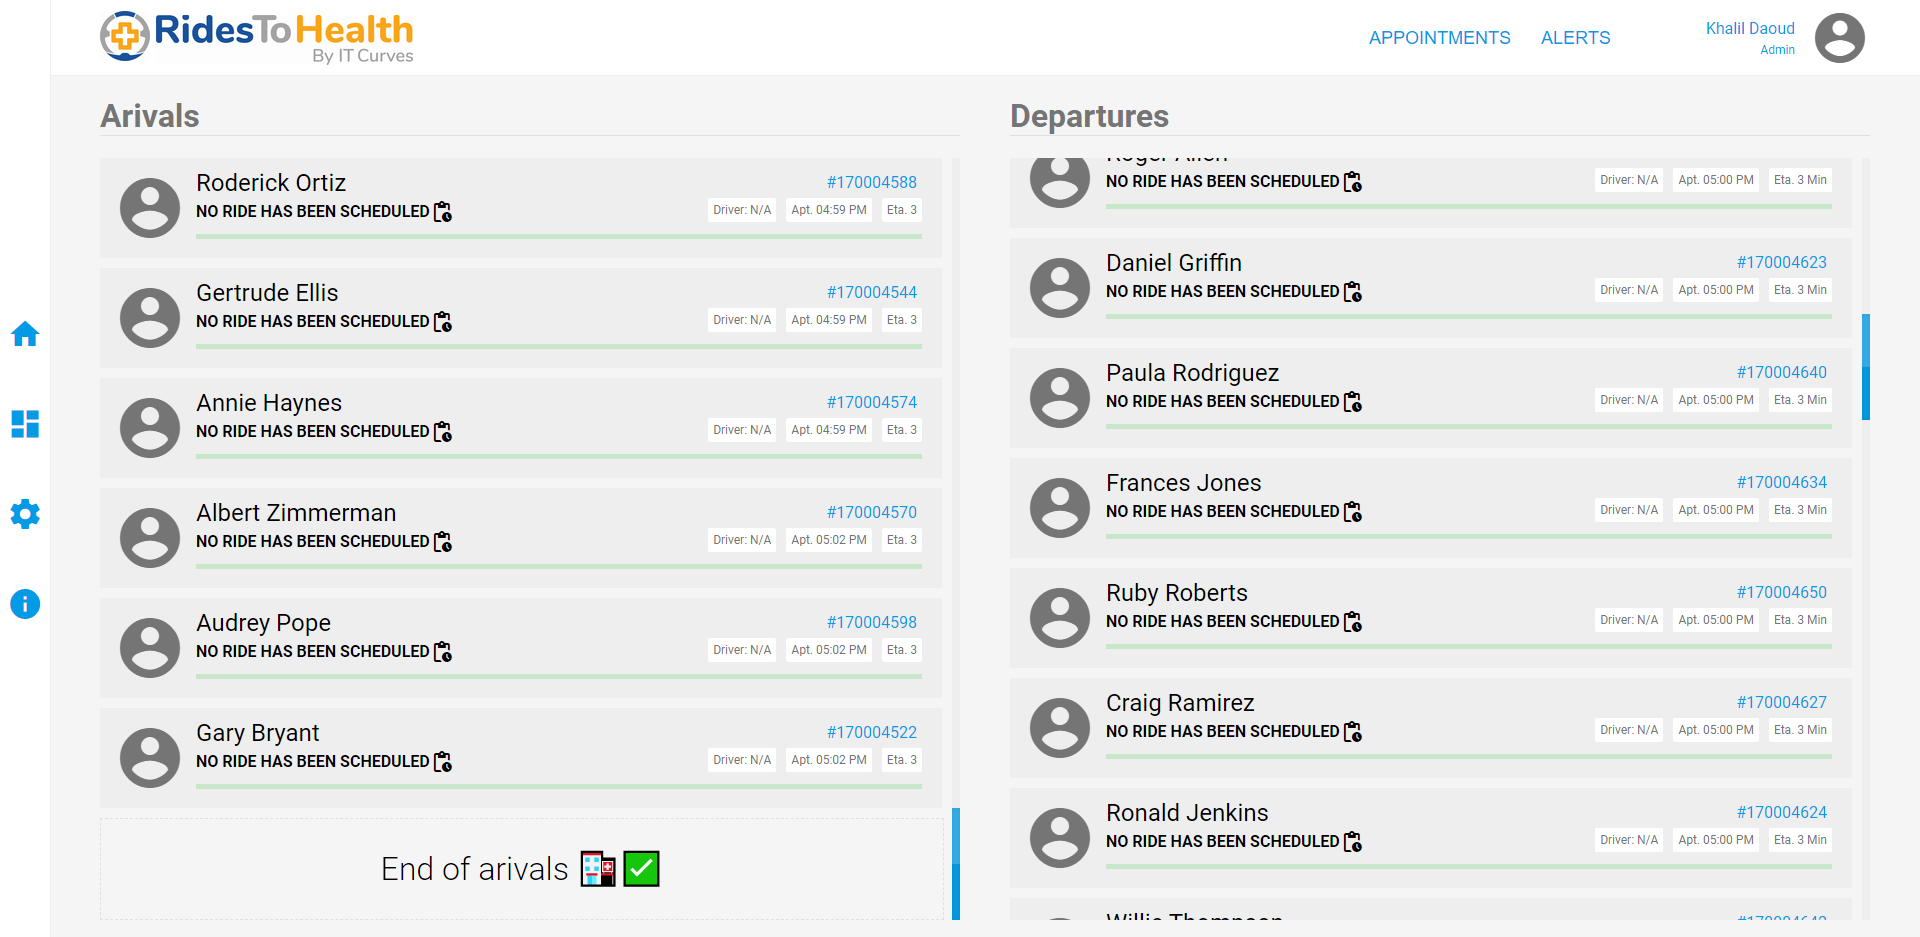
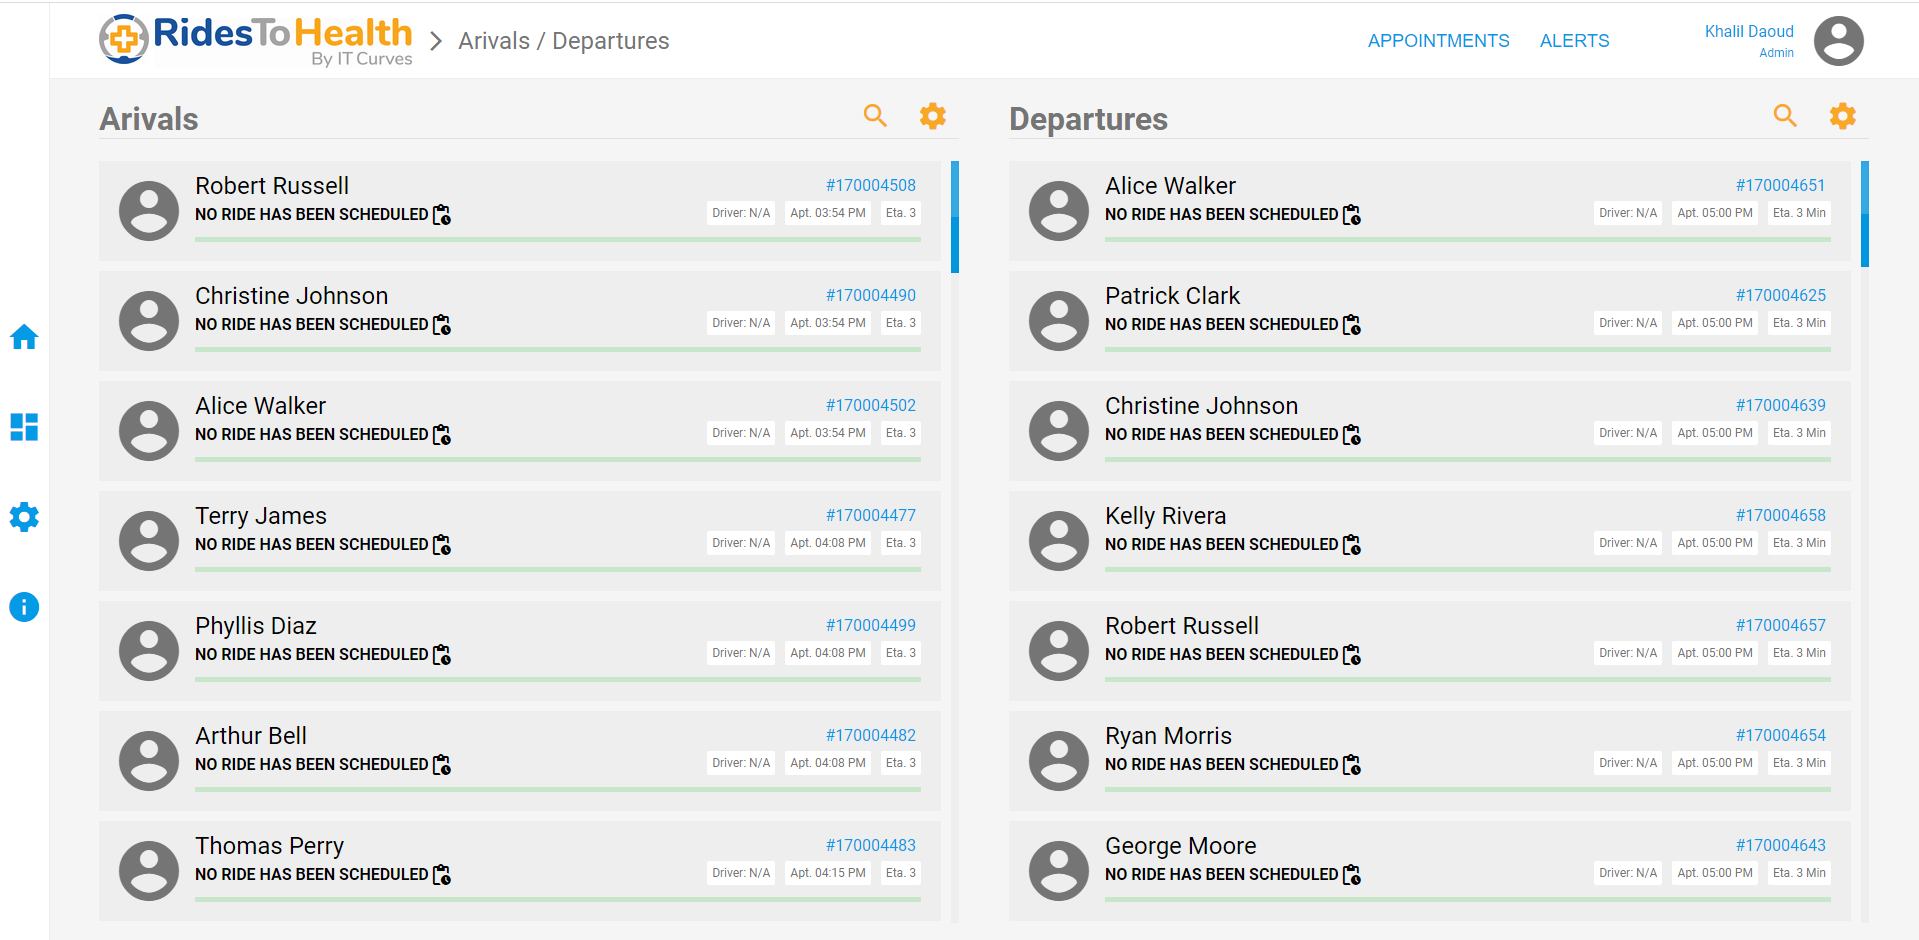
touch ups

diff --git a/index.html b/index.html
@@ -1,5 +1,5 @@
 <!DOCTYPE html>
-<html>
+<html lang="en-US" xml:lang="en-US">
     <head>
         <title>RTH Dialysis Center Dashboard</title>
 
@@ -30,6 +30,9 @@
         <header class="header-bar">
             <img src="media/header_logo.png" alt="RTH Logo" />
 
+            <span class="header-text material-icons">arrow_forward_ios</span>
+            <span class="header-text">Arivals / Departures</span>
+
             <button class="text-button push-right">appointments</button>
             <button class="text-button">alerts</button>
 
@@ -45,13 +48,21 @@
         <main class="main-container">
             <div class="lists-container">
                 <div id="arivals" class="trip-list">
-                    <h1 class="trip-list-header">Arivals</h1>
+                    <h1 class="trip-list-header">
+                        Arivals 
+                        <span class="material-icons trip-list-header-icon">settings</span>
+                        <span class="material-icons trip-list-header-icon">search</span>
+                    </h1>
                     <ul id="arivals_list" class="scrollbar-primary">
                     </ul>
                 </div>
 
                 <div id="departures" class="trip-list">
-                    <h1 class="trip-list-header">Departures</h1>
+                    <h1 class="trip-list-header">
+                        Departures
+                        <span class="material-icons trip-list-header-icon">settings</span>
+                        <span class="material-icons trip-list-header-icon">search</span>
+                    </h1>
                     <ul id="departures_list" class="scrollbar-primary">
                     </ul>
                 </div>

diff --git a/css/styles.css b/css/styles.css
@@ -85,6 +85,11 @@ body {
   gap: 10px;
 }
 
+.header-text {
+  font-size: 24px !important;
+  color: #757575;
+}
+
 .profile-container {
   margin-left: 75px;
   cursor: pointer;
@@ -175,6 +180,23 @@ body {
 .trip-list-header {
   color: #757575;
   border-bottom: 1px solid #e0e0e0;
+}
+
+.trip-list-header-icon {
+  float: right;
+  vertical-align: middle;
+  cursor: pointer;
+  font-size: 32px !important;
+  margin-right: 10px;
+  color: var(--secondary-theme);
+}
+
+.trip-list-header-icon:last-child {
+  margin-right: 25px;
+}
+
+.trip-list-header-icon:hover {
+  color: var(--primary-theme);
 }
 
 .trip-entry {
